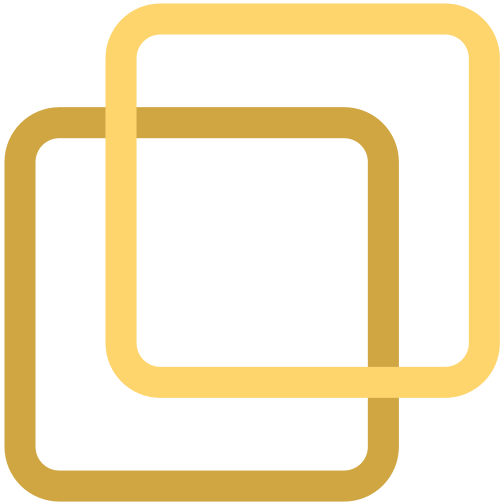
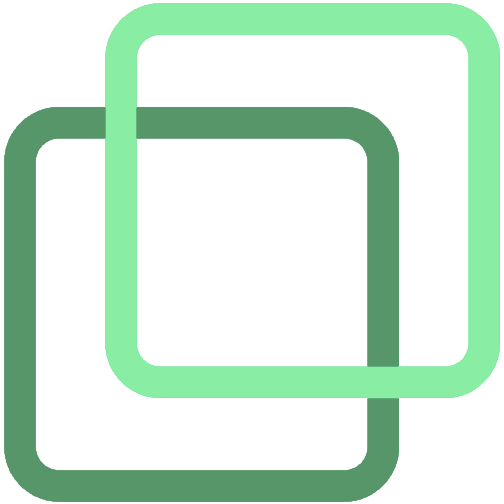
`color-accent`

diff --git a/Source/com/jackmeng/halcyon/constant/ColorManager.java b/Source/com/jackmeng/halcyon/constant/ColorManager.java
@@ -28,7 +28,8 @@ import java.awt.*;
  * @since 3.0
  */
 public interface ColorManager {
-  final Color MAIN_FG_THEME = ColorTool.hexToRGBA("#FED46D");
-  final String MAIN_FG_STR = "#FED46D";
+  final Color MAIN_FG_THEME = ColorTool.hexToRGBA("#6bedb5");
+  final String MAIN_FG_STR = "#6bedb5";
   final Color BORDER_THEME = ColorTool.hexToRGBA("#5F657D");
+  final Color MAIN_BG_THEME = ColorTool.hexToRGBA("#cef5e6");
 }

diff --git a/Source/com/jackmeng/cosmos/components/toppane/layout/ButtonControlTP.java b/Source/com/jackmeng/cosmos/components/toppane/layout/ButtonControlTP.java
@@ -176,6 +176,7 @@ public class ButtonControlTP extends JPanel
     progressSlider.setValue(0);
     progressSlider.setFocusable(false);
     progressSlider.setForeground(ColorManager.MAIN_FG_THEME);
+    progressSlider.setBackground(ColorManager.MAIN_BG_THEME);
     progressSlider.setBorder(null);
     progressSlider.setAlignmentX(Component.CENTER_ALIGNMENT);
     progressSlider.addChangeListener(this);
